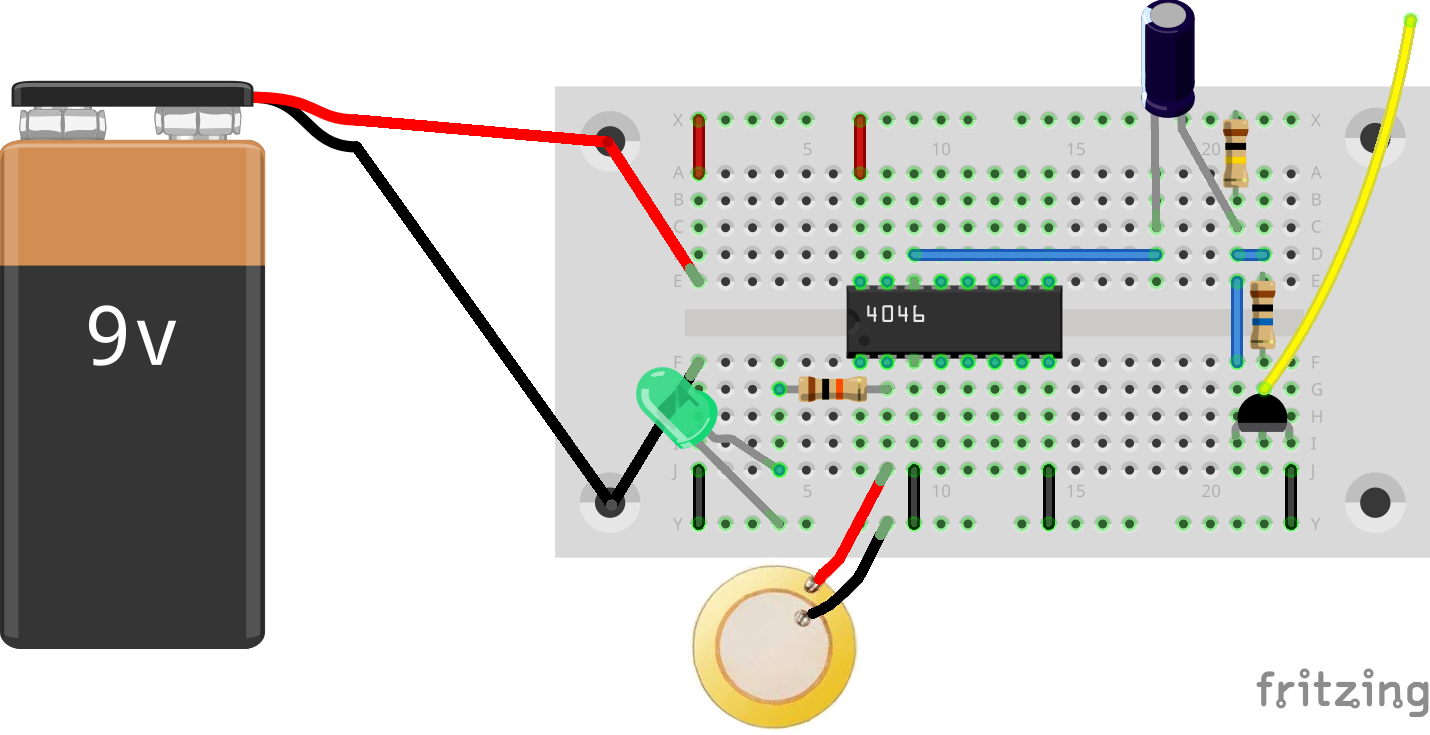
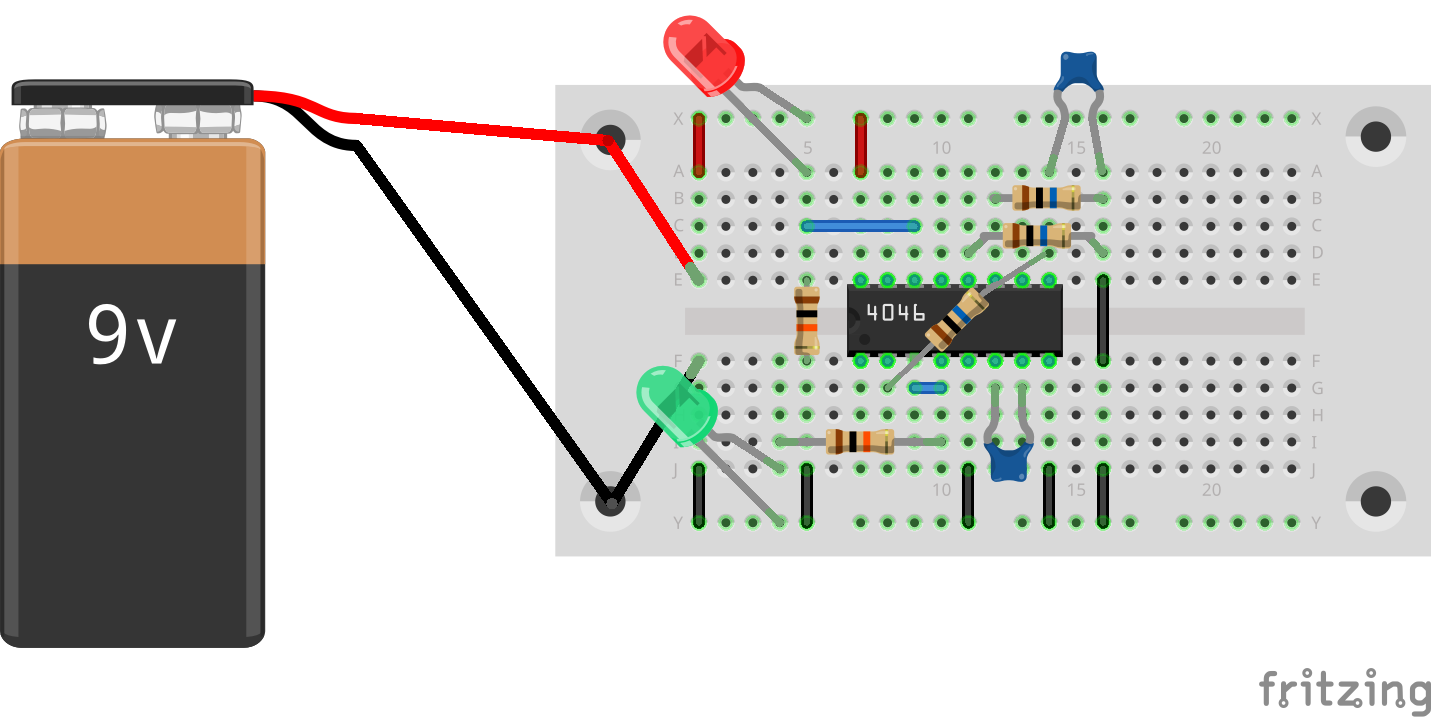
21. Dezember

diff --git a/adventskalender/src/main/webapp/2023/99_legal/legal.html b/adventskalender/src/main/webapp/2023/99_legal/legal.html
@@ -1,125 +1,125 @@
 <!DOCTYPE html>
 <html xmlns="http://www.w3.org/1999/xhtml" lang="de">
-
-    <head>
-        <meta charset="UTF-8">
-        </meta>
-        <meta name="viewport" content="width=device-width, initial-scale=1">
-        </meta>
-        <title>Elektronik Adventskalender: Lizenz</title>
-        <base href="../../">
-        </base>
-        <link rel="stylesheet" href="css/stylesheet.css">
-        </link>
-    </head>
-
-    <body>
-        <h1 class="content-part">
-            Dies ist ein Teil vom <a href="index.html">Elektronik-Adventskalender</a>
-        </h1>
-        <div class="content-container active">
-            <details open="open">
-                <summary>Lizenz und Quellenangaben</summary>
-                <p>
-                    Der gesamte Programmcode, die Texte und die Schaltpläne sind in
-                    meinem <a href="https://github.com/frifle/adventskalender">github-Repository</a>
-                    zu finden. Alle diese Dateien sind im public domain. Du darfst
-                    Sie also beliebig verwenden. Wenn Du dabei auf mich verweist,
-                    fände ich das natürlich toll.
-                </p>
-                <p>
-                    Falls Du Anregungen hast oder einfach nur etwas chatten
-                    möchtest: Bitte öffne im <a href="https://github.com/frifle/adventskalender">Repository</a>
-                    ein issue oder starte eine discussion.
-                </p>
-                <p>Für einige wenige Dinge gab es Vorlagen von
-                    openclipart.org, und zwar:
-                <ul>
-                    <li>Der Weihnachtsbaum im Hintergrund sowie die großen
-                        gelben Sterne sind dem <a
-                            href="https://openclipart.org/detail/204570/cartoon-xmas-tree">cartoon-xmas-tree</a>
-                        entnommen.
-                    </li>
-                    <li>Der blaue Sternenhimmel ist eine Bearbeitung von <a
-                            href="https://openclipart.org/detail/188621/nativity-scene-background">nativity-scene-background</a>.
-                    </li>
-                    <li>Schliesslich kommt die Büroklammer von <a
-                            href="https://openclipart.org/detail/3180/paper-clip">paper-clip</a>.
-                    </li>
-                </ul>
-                </p>
-            </details>
-            <details open="true">
-                <summary>Impressum</summary>
-                <p>Diese Website ist nach meiner Meinung rein privat. Falls
-                    jemand dazu anderer Meinung ist, hier die notwendigen Angaben zu
-                    meiner Erreichbarkeit gemäß §5 TMG:</p>
-                <p>Dr. Fritjof Flechsig, Ricklinger Stadtweg 4b, 30459
-                    Hannover</p>
-                <p>
-                    EMail: <span>info</span><span>(at)</span><span>frifle</span><span>(punkt)</span><span>de</span>.
-                </p>
-            </details>
-            <details>
-                <summary>Haftungsausschluss – Disclaimer</summary>
-                <p>Alle Inhalte unseres Internetauftritts wurden mit größter
-                    Sorgfalt und nach bestem Gewissen erstellt. Für die Richtigkeit,
-                    Vollständigkeit und Aktualität der Inhalte können wir jedoch
-                    keine Gewähr übernehmen. Als Diensteanbieter sind wir gemäß § 7
-                    Abs.1 TMG für eigene Inhalte auf diesen Seiten nach den
-                    allgemeinen Gesetzen verantwortlich. Nach §§ 8 bis 10 TMG sind
-                    wir als Diensteanbieter jedoch nicht verpflichtet, übermittelte
-                    oder gespeicherte fremde Informationen zu überwachen oder nach
-                    Umständen zu forschen, die auf eine rechtswidrige Tätigkeit
-                    hinweisen. Verpflichtungen zur Entfernung oder Sperrung der
-                    Nutzung von Informationen nach den allgemeinen Gesetzen bleiben
-                    hiervon unberührt.</p>
-                <p>Eine diesbezügliche Haftung ist jedoch erst ab dem
-                    Zeitpunkt der Kenntniserlangung einer konkreten Rechtsverletzung
-                    möglich. Bei Bekanntwerden von den o.g. Rechtsverletzungen
-                    werden wir diese Inhalte unverzüglich entfernen.</p>
-                <h4>Haftungsbeschränkung für externe Links</h4>
-                <p>Diese Webseite enthält Links auf externe Webseiten Dritter.
-                    Auf die Inhalte dieser direkt oder indirekt verlinkten Webseiten
-                    haben wir keinen Einfluss. Daher können wir für die „externen
-                    Links“ auch keine Gewähr auf Richtigkeit der Inhalte übernehmen.
-                    Für die Inhalte der externen Links sind die jeweilige Anbieter
-                    oder Betreiber (Urheber) der Seiten verantwortlich.</p>
-                <p>Die externen Links wurden zum Zeitpunkt der Linksetzung auf
-                    eventuelle Rechtsverstöße überprüft und waren im Zeitpunkt der
-                    Linksetzung frei von rechtswidrigen Inhalten. Eine ständige
-                    inhaltliche Überprüfung der externen Links ist ohne konkrete
-                    Anhaltspunkte einer Rechtsverletzung nicht möglich. Bei direkten
-                    oder indirekten Verlinkungen auf die Webseiten Dritter, die
-                    außerhalb unseres Verantwortungsbereichs liegen, würde eine
-                    Haftungsverpflichtung ausschließlich in dem Fall nur bestehen,
-                    wenn wir von den Inhalten Kenntnis erlangen und es uns technisch
-                    möglich und zumutbar wäre, die Nutzung im Falle rechtswidriger
-                    Inhalte zu verhindern.</p>
-                <p>Für illegale, fehlerhafte oder unvollständige Inhalte und
-                    insbesondere für Schäden, die aus der Nutzung oder Nichtnutzung
-                    solcherart dargestellten Informationen entstehen, haftet allein
-                    der Diensteanbieter der Seite, auf welche verwiesen wurde, nicht
-                    derjenige, der über Links auf die jeweilige Veröffentlichung
-                    lediglich verweist.</p>
-                <p>Werden uns Rechtsverletzungen bekannt, werden die externen
-                    Links durch uns unverzüglich entfernt.</p>
-                <p>Dieses Impressum wurde freundlicherweise von jurarat.de zur
-                    Verfügung gestellt.</p>
-            </details>
-            <details>
-                <summary>Datenschutz</summary>
-                <h4>Datenschutzerklärung für GitHub Pages und GitHub Inc.</h4>
-                <p>
-                    Dieses ist eine statische Webseite. Sie wird über den Service
-                    GitHub Pages des Unternehmens GitHub Inc. gehostet. Auf die
-                    Erhebung, Speicherung und/oder Weiterleitung personenbezogener
-                    Daten durch GitHub Pages beziehungsweise GitHub Inc. haben wir
-                    keinerlei Einfluss. Hier gilt die Datenschutzerklärung von
-                    GitHub Inc.: <a href="https://github.com/site/privacy">https://github.com/site/privacy</a>.
-                </p>
-            </details>
-        </div>
-    </body>
-
+<head>
+<meta charset="UTF-8">
+</meta>
+<meta name="viewport" content="width=device-width, initial-scale=1">
+</meta>
+<title>Elektronik Adventskalender: Lizenz</title>
+<base href="../../">
+</base>
+<link rel="stylesheet" href="css/stylesheet.css">
+</link>
+</head>
+<body>
+  <h1 class="content-part">
+    Dies ist ein Teil vom <a href="index.html">Elektronik-Adventskalender</a>
+  </h1>
+  <div class="content-container active">
+    <details open="open">
+      <summary>Lizenz und Quellenangaben</summary>
+      <p>
+        Der gesamte Programmcode, die Texte und die Schaltpläne sind in
+        meinem <a href="https://github.com/frifle/adventskalender">github-Repository</a>
+        zu finden. Alle diese Dateien stehen unter der MIT License. Du
+        darfst Sie also beliebig verwenden, solange Du auf mein
+        Copyright verweist. Siehe bitte die Datei <a
+          href="https://github.com/frifle/adventskalender/blob/prod/LICENSE">"LICENSE"</a>
+        im repository.
+      </p>
+      <p>
+        Falls Du Anregungen hast oder einfach nur etwas chatten
+        möchtest: Bitte öffne im <a
+          href="https://github.com/frifle/adventskalender">Repository</a>
+        ein issue oder starte eine discussion.
+      </p>
+      <p>
+        Für einige Dinge gab es Vorlagen von openclipart.org, und zwar:
+      <ul>
+        <li>Der Weihnachtsbaum im Hintergrund sowie die großen
+          gelben Sterne sind dem <a
+          href="https://openclipart.org/detail/204570/cartoon-xmas-tree">cartoon-xmas-tree</a>
+          entnommen.
+        </li>
+        <li>Der blaue Sternenhimmel ist eine Bearbeitung von <a
+          href="https://openclipart.org/detail/188621/nativity-scene-background">nativity-scene-background</a>.
+        </li>
+        <li>Schliesslich kommt die Büroklammer von <a
+          href="https://openclipart.org/detail/3180/paper-clip">paper-clip</a>.
+        </li>
+      </ul>
+      </p>
+    </details>
+    <details open="true">
+      <summary>Impressum</summary>
+      <p>Diese Website ist nach meiner Meinung rein privat. Falls
+        jemand dazu anderer Meinung ist, hier die notwendigen Angaben zu
+        meiner Erreichbarkeit gemäß §5 TMG:</p>
+      <p>Dr. Fritjof Flechsig, Ricklinger Stadtweg 4b, 30459
+        Hannover</p>
+      <p>
+        EMail: <span>info</span><span>(at)</span><span>frifle</span><span>(punkt)</span><span>de</span>.
+      </p>
+    </details>
+    <details>
+      <summary>Haftungsausschluss – Disclaimer</summary>
+      <p>Alle Inhalte unseres Internetauftritts wurden mit größter
+        Sorgfalt und nach bestem Gewissen erstellt. Für die Richtigkeit,
+        Vollständigkeit und Aktualität der Inhalte können wir jedoch
+        keine Gewähr übernehmen. Als Diensteanbieter sind wir gemäß § 7
+        Abs.1 TMG für eigene Inhalte auf diesen Seiten nach den
+        allgemeinen Gesetzen verantwortlich. Nach §§ 8 bis 10 TMG sind
+        wir als Diensteanbieter jedoch nicht verpflichtet, übermittelte
+        oder gespeicherte fremde Informationen zu überwachen oder nach
+        Umständen zu forschen, die auf eine rechtswidrige Tätigkeit
+        hinweisen. Verpflichtungen zur Entfernung oder Sperrung der
+        Nutzung von Informationen nach den allgemeinen Gesetzen bleiben
+        hiervon unberührt.</p>
+      <p>Eine diesbezügliche Haftung ist jedoch erst ab dem
+        Zeitpunkt der Kenntniserlangung einer konkreten Rechtsverletzung
+        möglich. Bei Bekanntwerden von den o.g. Rechtsverletzungen
+        werden wir diese Inhalte unverzüglich entfernen.</p>
+      <h4>Haftungsbeschränkung für externe Links</h4>
+      <p>Diese Webseite enthält Links auf externe Webseiten Dritter.
+        Auf die Inhalte dieser direkt oder indirekt verlinkten Webseiten
+        haben wir keinen Einfluss. Daher können wir für die „externen
+        Links“ auch keine Gewähr auf Richtigkeit der Inhalte übernehmen.
+        Für die Inhalte der externen Links sind die jeweilige Anbieter
+        oder Betreiber (Urheber) der Seiten verantwortlich.</p>
+      <p>Die externen Links wurden zum Zeitpunkt der Linksetzung auf
+        eventuelle Rechtsverstöße überprüft und waren im Zeitpunkt der
+        Linksetzung frei von rechtswidrigen Inhalten. Eine ständige
+        inhaltliche Überprüfung der externen Links ist ohne konkrete
+        Anhaltspunkte einer Rechtsverletzung nicht möglich. Bei direkten
+        oder indirekten Verlinkungen auf die Webseiten Dritter, die
+        außerhalb unseres Verantwortungsbereichs liegen, würde eine
+        Haftungsverpflichtung ausschließlich in dem Fall nur bestehen,
+        wenn wir von den Inhalten Kenntnis erlangen und es uns technisch
+        möglich und zumutbar wäre, die Nutzung im Falle rechtswidriger
+        Inhalte zu verhindern.</p>
+      <p>Für illegale, fehlerhafte oder unvollständige Inhalte und
+        insbesondere für Schäden, die aus der Nutzung oder Nichtnutzung
+        solcherart dargestellten Informationen entstehen, haftet allein
+        der Diensteanbieter der Seite, auf welche verwiesen wurde, nicht
+        derjenige, der über Links auf die jeweilige Veröffentlichung
+        lediglich verweist.</p>
+      <p>Werden uns Rechtsverletzungen bekannt, werden die externen
+        Links durch uns unverzüglich entfernt.</p>
+      <p>Dieses Impressum wurde freundlicherweise von jurarat.de zur
+        Verfügung gestellt.</p>
+    </details>
+    <details>
+      <summary>Datenschutz</summary>
+      <h4>Datenschutzerklärung für GitHub Pages und GitHub Inc.</h4>
+      <p>
+        Dieses ist eine statische Webseite. Sie wird über den Service
+        GitHub Pages des Unternehmens GitHub Inc. gehostet. Auf die
+        Erhebung, Speicherung und/oder Weiterleitung personenbezogener
+        Daten durch GitHub Pages beziehungsweise GitHub Inc. haben wir
+        keinerlei Einfluss. Hier gilt die Datenschutzerklärung von
+        GitHub Inc.: <a href="https://github.com/site/privacy">https://github.com/site/privacy</a>.
+      </p>
+    </details>
+  </div>
+</body>
 </html>

diff --git a/adventskalender/src/main/webapp/2023/21_dez/description.html b/adventskalender/src/main/webapp/2023/21_dez/description.html
@@ -1,33 +1,51 @@
 <!DOCTYPE html>
 <html xmlns="http://www.w3.org/1999/xhtml" lang="de">
 
-<head>
-	<meta charset="UTF-8">
-	</meta>
-	<meta name="viewport" content="width=device-width, initial-scale=1">
-	</meta>
-	<title>Elektronik Adventskalender: 50 Hertz Detektor</title>
-	<base href="../../"></base>
-	<link rel="stylesheet" href="css/stylesheet.css">
-	</link>
-</head>
+    <head>
+        <meta charset="UTF-8">
+        </meta>
+        <meta name="viewport" content="width=device-width, initial-scale=1">
+        </meta>
+        <title>Elektronik Adventskalender: 50 Hertz Detektor</title>
+        <base href="../../">
+        </base>
+        <link rel="stylesheet" href="css/stylesheet.css">
+        </link>
+    </head>
 
-<body>
-	<header class="content-part">Dies ist ein Teil vom <a href="index.html">Elektronik-Adventskalender</a></header>
-	<div class="content-container active">
-		<h2>21. Dezember: 50 Hz Detektor</h2>
-		<p>
-			@Todo
-		</p>
-		<p>
-
-		</p>
-		<p>
-		<div class="image-container">
-			<img src="./2023/21_dez/circuit.png" aria-label="Bild vom Schaltkreis"></img>
-		</div>
-		</p>
-	</div>
-</body>
+    <body>
+        <header class="content-part">Dies ist ein Teil vom <a href="index.html">Elektronik-Adventskalender</a></header>
+        <div class="content-container active">
+            <h2>21. Dezember: doppelte Frequenz</h2>
+            <p>
+                Eine der wichtigsten Anwendung für PLLs ist die Erzeugung von genauen Frequenzen - und zwar nicht nur
+                als Reproduktion einer Eingangs-Frequenz. Viel interessanter sind Vielfache von genauen Frequenzen. Für
+                den Hausgebrauch basieren die genauesten Oszillatoren auf Schwingquarzen. Die gibt es als Uhrenquarz mit
+                32 kHz bis hin zu ca 30 MHz. Dann ist aber Schluß - nur wie produzieren Computer dann genaue 4,3 GHz?
+            </p>
+            <p>
+                Um einen PLL dazu zu bringen, ein Vielfaches seiner Eingangs-Frequenz zu produzieren, baut man
+                normalerweise in die Verbindung zwischen PIN 3 und PIN 4 einen Frequenzteiler ein.
+                Diese Dinger sind mit normalen Logikbausteinen recht einfach zu bauen. Leider hat der
+                Adventskalender keinen Platz für einen weiteren IC. Ok, der 4046 schafft eh keine GHz, da brauchts
+                dann andere ICs.
+            </p>
+            <p>
+                Als Alternative bietet der 4046 eine besondere Eigenschaft vom PC_1 an: Der Loop kann auch auf
+                Mehrfachen der Eingangsfrequenz einrasten (der PC_2 kann das nicht). Dazu wird der VCO durch den
+                zusätzlichen 1 MOhm Widerstand in einen etwas schnelleren Frequenzbereich geschoben, der zu schnell für
+                die Blinkfrequenz der roten LED ist.
+            </p>
+            <p>
+            <div class="image-container">
+                <img src="./2023/21_dez/circuit.png" aria-label="Bild vom Schaltkreis"></img>
+            </div>
+            </p>
+            <p>
+                Falls der Loop nicht einrastet, kannst Du die optionalen Bauelemente vom 19. Dezember probieren. Bei mir
+                rastet er auf der doppelten Frequenz ein, es kann aber auch die drei- oder vierfache werden.
+            </p>
+        </div>
+    </body>
 
 </html>

diff --git a/adventskalender/src/main/webapp/2023/22_dez/description.html b/adventskalender/src/main/webapp/2023/22_dez/description.html
@@ -24,9 +24,17 @@
 		</p>
 		<p>
 		<div class="image-container">
-			<img src="./2023/22_dez/circuit.png" aria-label="Bild vom Schaltkreis"></img>
+			<img src="./2023/22_dez/circuit_1.png" aria-label="Bild vom Schaltkreis"></img>
 		</div>
 		</p>
+        <p>
+
+        </p>
+        <p>
+        <div class="image-container">
+            <img src="./2023/22_dez/circuit_2.png" aria-label="Bild vom Schaltkreis"></img>
+        </div>
+        </p>
 	</div>
 </body>
 
